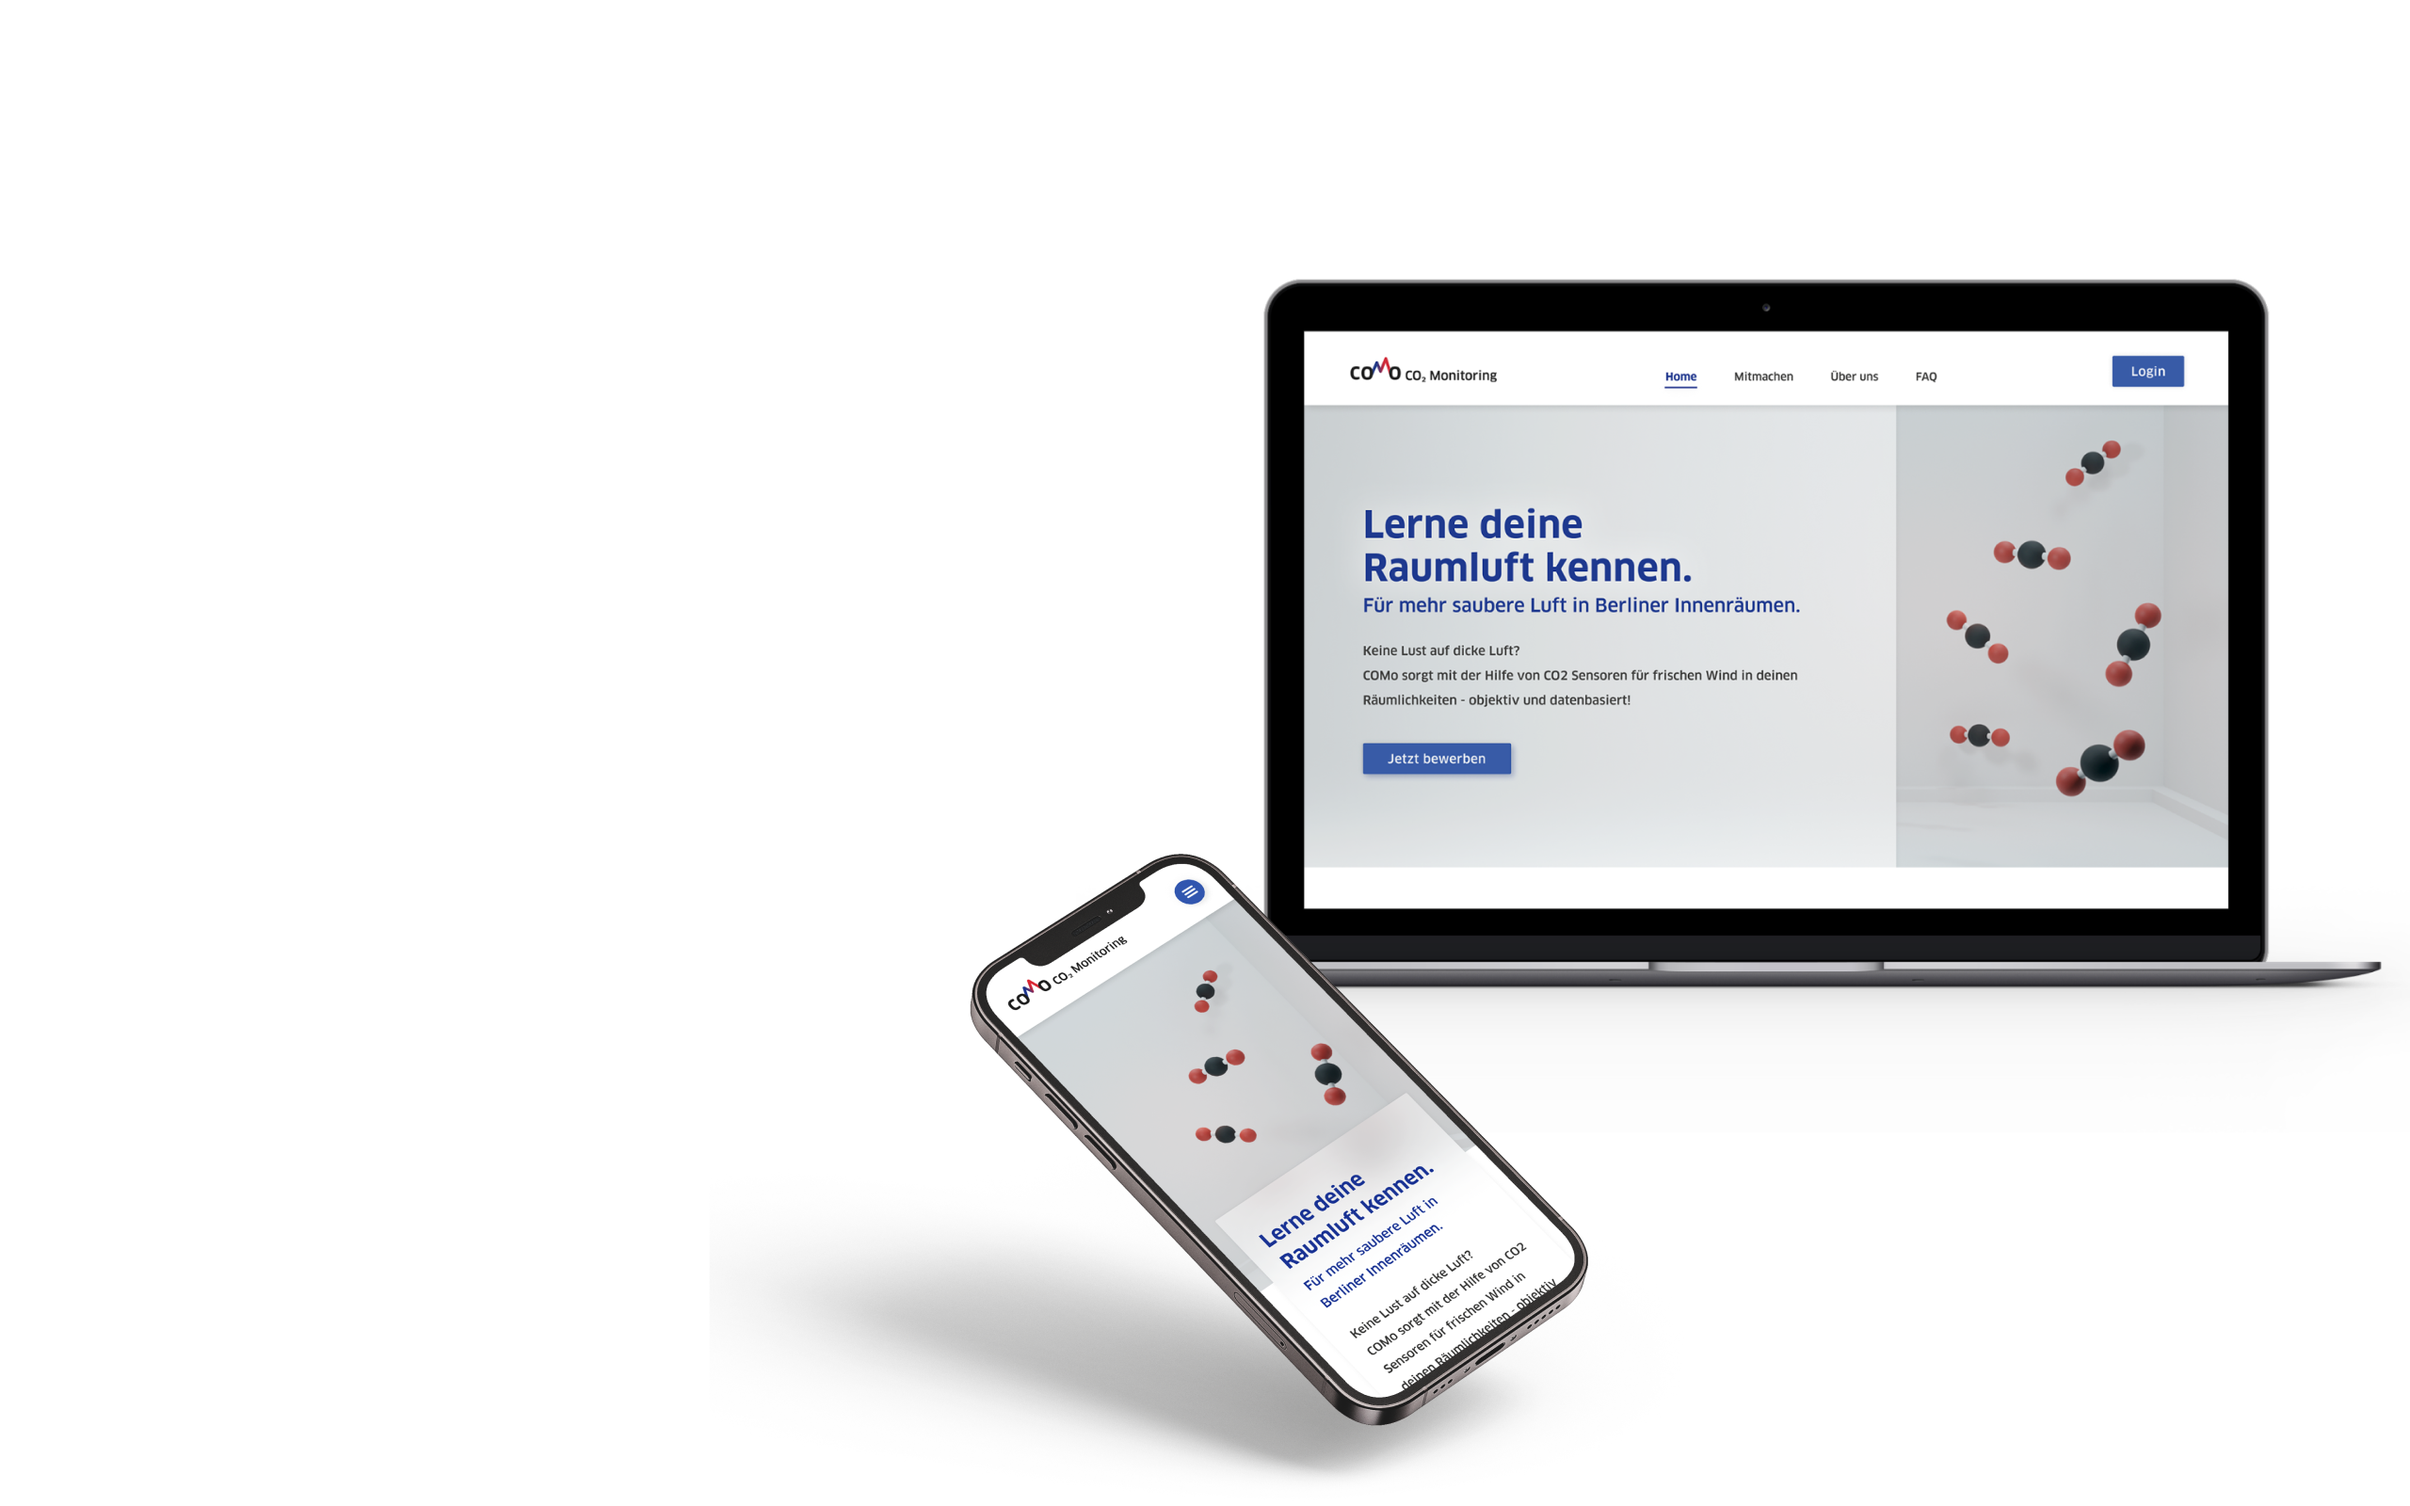
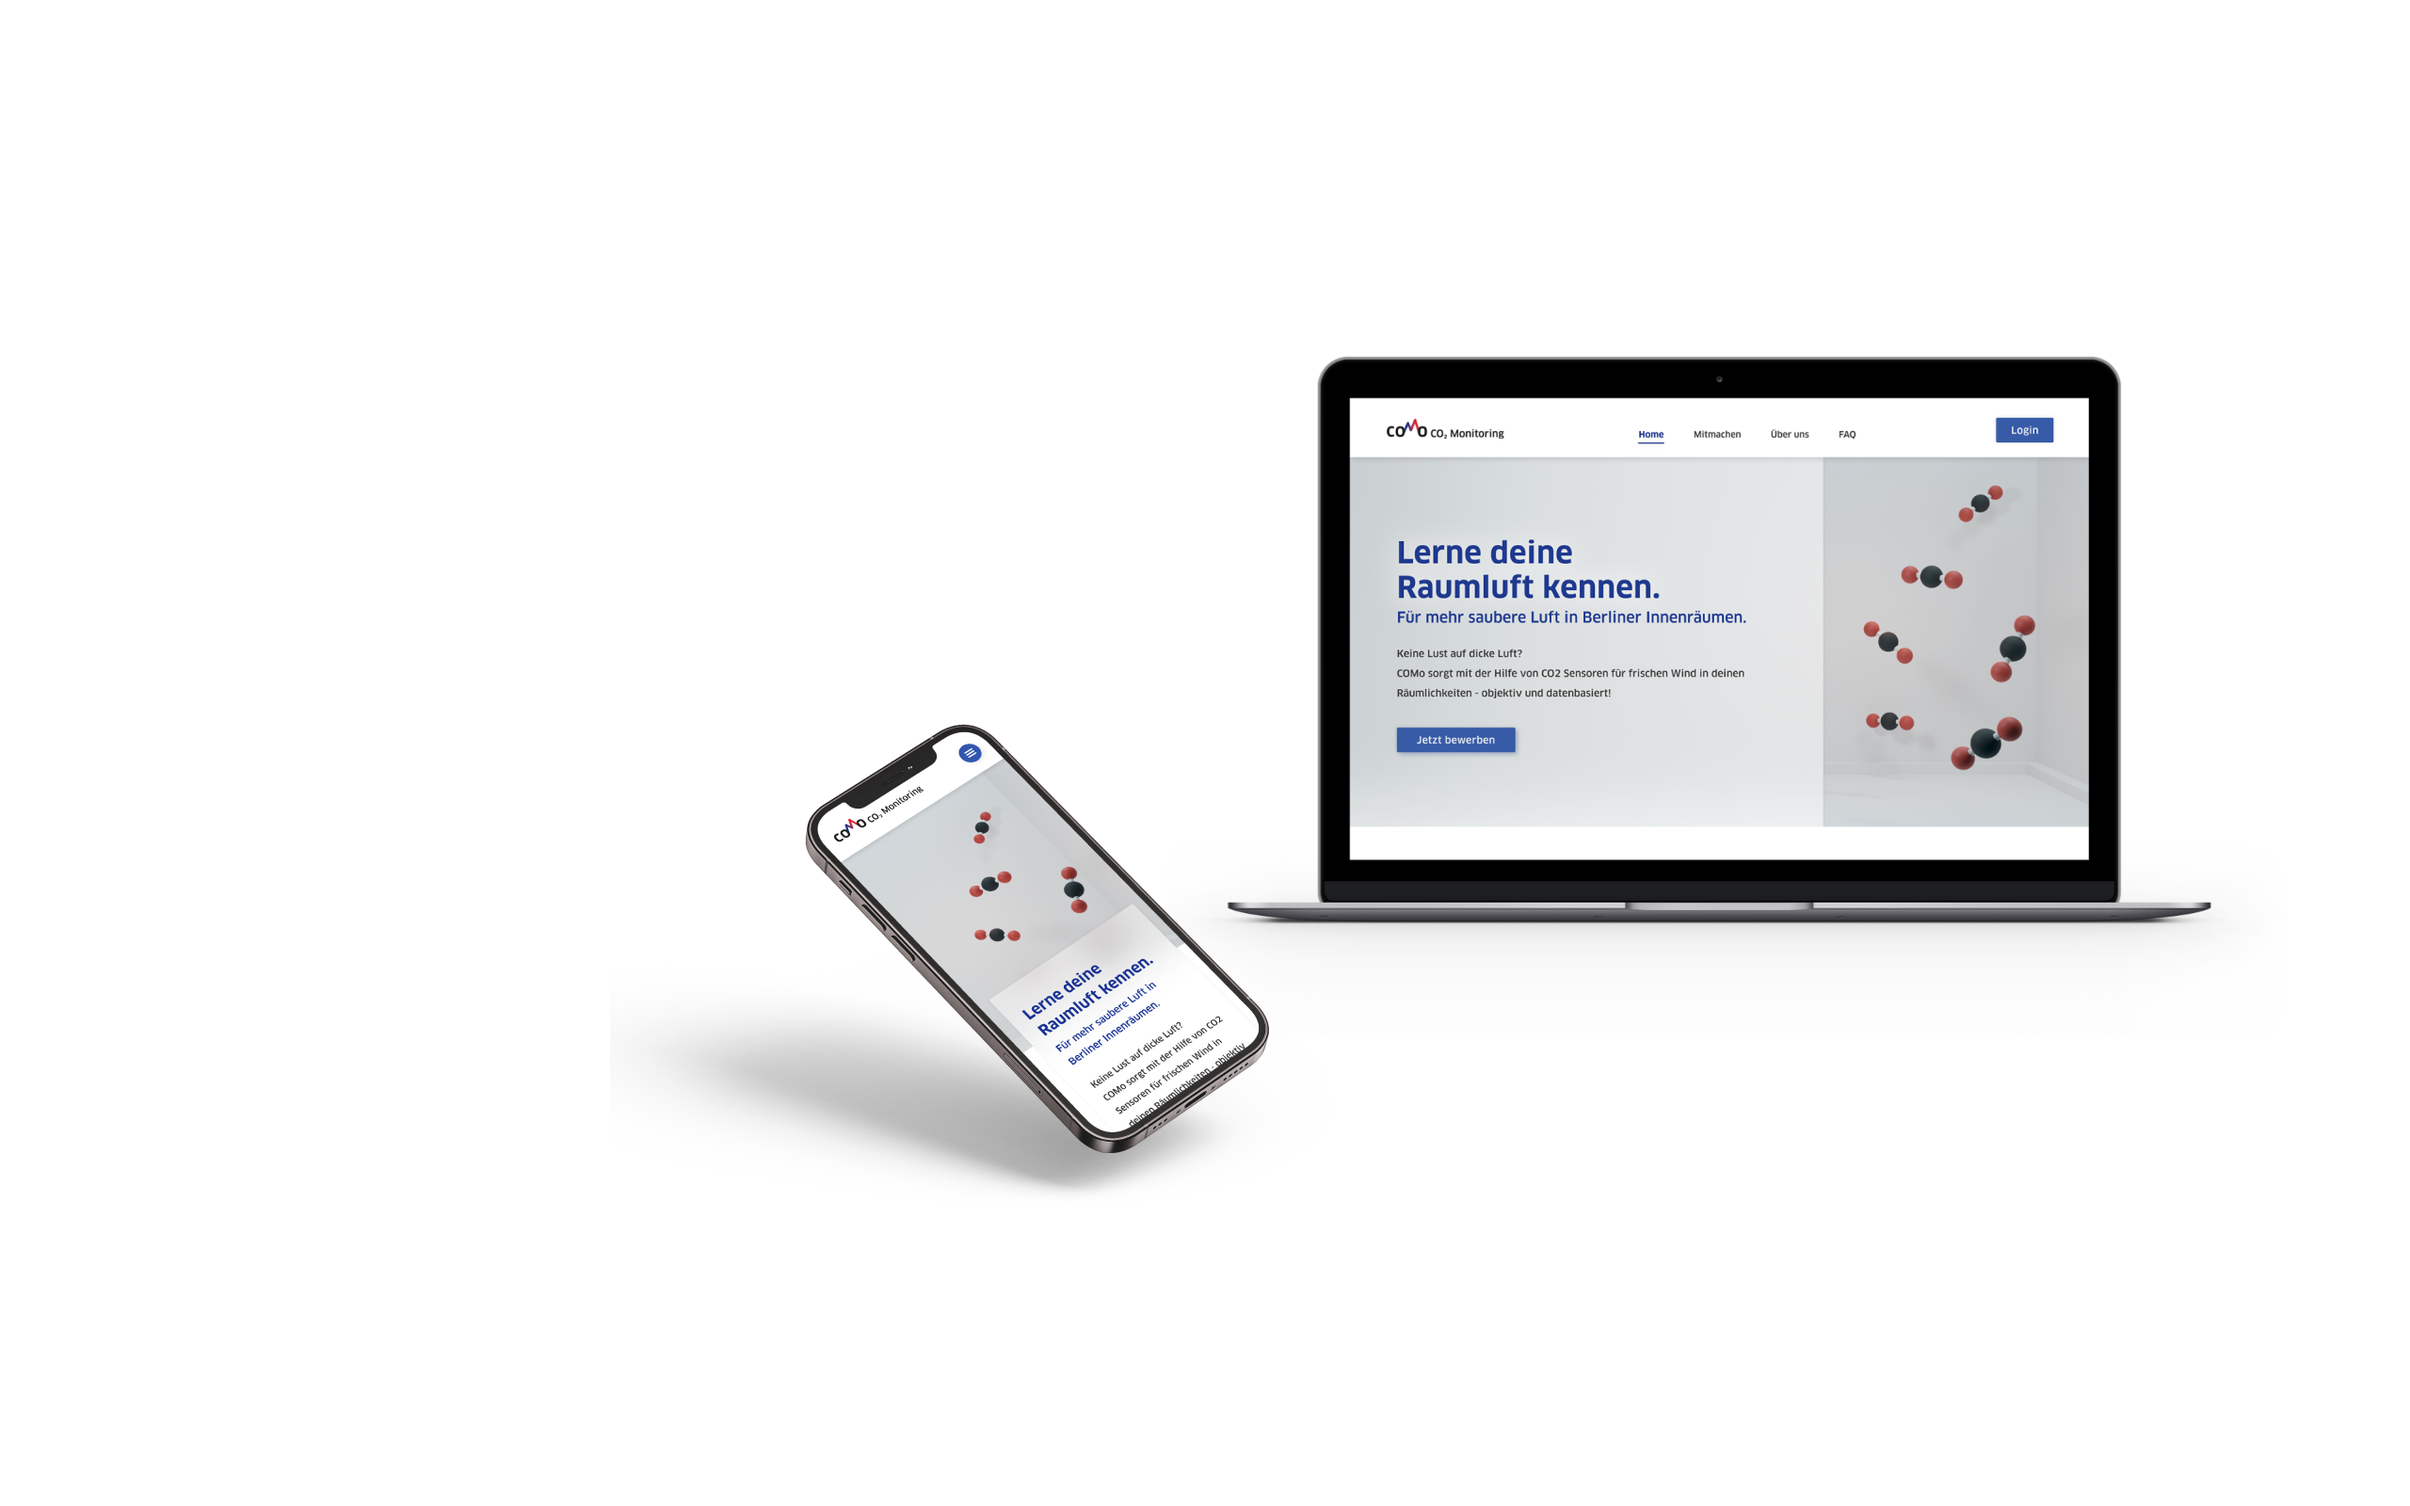
changed assets in the project section

Changed region(s): [[0.2812, 0.1875, 1.0, 1.0]]

diff --git a/src/content.js b/src/content.js
@@ -184,6 +184,8 @@ const content = {
           src: "assets/images/odis.png",
           alt: "Die Homepage von ODIS",
           copyright: "",
+          fit: "cover",
+          position: "center center",
         },
       },
     ],
@@ -229,10 +231,10 @@ const content = {
           },
         },
         img: {
-          src: "assets/images/neue-technologien_datenoekonomie.jpg",
+          src: "assets/images/datenoekonomie.png",
           alt: "Das Deckblatt der Studie zum Thema Datenökonomie.",
           copyright: "",
-          position: "center right",
+          position: "center center",
         },
       },
       {
@@ -260,7 +262,7 @@ const content = {
           src: "assets/images/Innovationserhebung.jpg",
           alt: "Eine Frau mit VR-Brille, rein illustrativ",
           copyright: "© shutterstock",
-          position: "center right",
+          position: "center center",
         },
       },
     ],
@@ -306,10 +308,10 @@ const content = {
           },
         },
         img: {
-          src: "assets/images/kultur_bdigital.jpg",
+          src: "assets/images/kultur_bdigital.png",
           alt: "Die Homepage von kulturBdigital.",
           copyright: " ",
-          position: "top center",
+          position: "center center",
         },
       },
     ],
@@ -433,7 +435,9 @@ const content = {
           src: "assets/images/como.png",
           alt: "Die Homepage von COMo Berlin.",
           copyright: " ",
+          maxWidth: "200px",
           position: "center right",
+          fit: "cover",
         },
       },
       {
